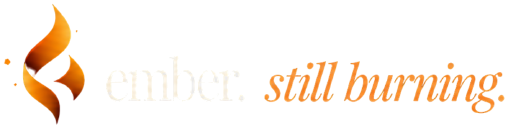
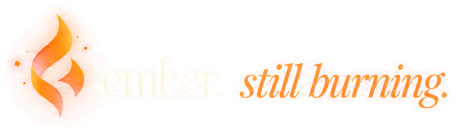
deploy: evidence refresh

diff --git a/index.html b/index.html
@@ -162,11 +162,11 @@ verdict: <span class="t-ok">named with certainty</span>
       <p class="lede center narrow">read from the repository at deploy time by <code>sync-evidence.mjs</code>. if the suite isn't green, the dash stays. no lying chips.</p>
       <div class="stats">
         <div class="stat">
-          <span class="stat-num" id="check-count" data-source="repo:62d6d8a@2026-09-23">267</span>
+          <span class="stat-num" id="check-count" data-source="repo:1e5fafb@2026-09-24">—</span>
           <span class="stat-label">automated checks, green</span>
         </div>
         <div class="stat">
-          <span class="stat-num" id="crash-count" data-source="repo:62d6d8a@2026-09-23">1</span>
+          <span class="stat-num" id="crash-count" data-source="repo:1e5fafb@2026-09-24">—</span>
           <span class="stat-label">crashes named · zero misattributions</span>
         </div>
         <div class="stat">
@@ -196,7 +196,7 @@ verdict: <span class="t-ok">named with certainty</span>
 
   <footer class="footer">
     <div class="wrap footer-in">
-      <a class="footer-lockup-a" href="#hero" aria-label="ember — still burning."><img class="footer-lockup" src="assets/brand/footer-lockup.png" alt="ember. still burning." draggable="false" /></a>
+      <a class="footer-lockup-a" href="#hero" aria-label="ember — still burning."><img class="footer-lockup" src="assets/brand/footer-lockup.png?v=2" alt="ember. still burning." draggable="false" /></a>
       <nav class="footer-links">
         <a href="https://github.com/prathamsethiongithub/mu-launcher" rel="noopener">github</a>
         <a href="#">discord</a>
